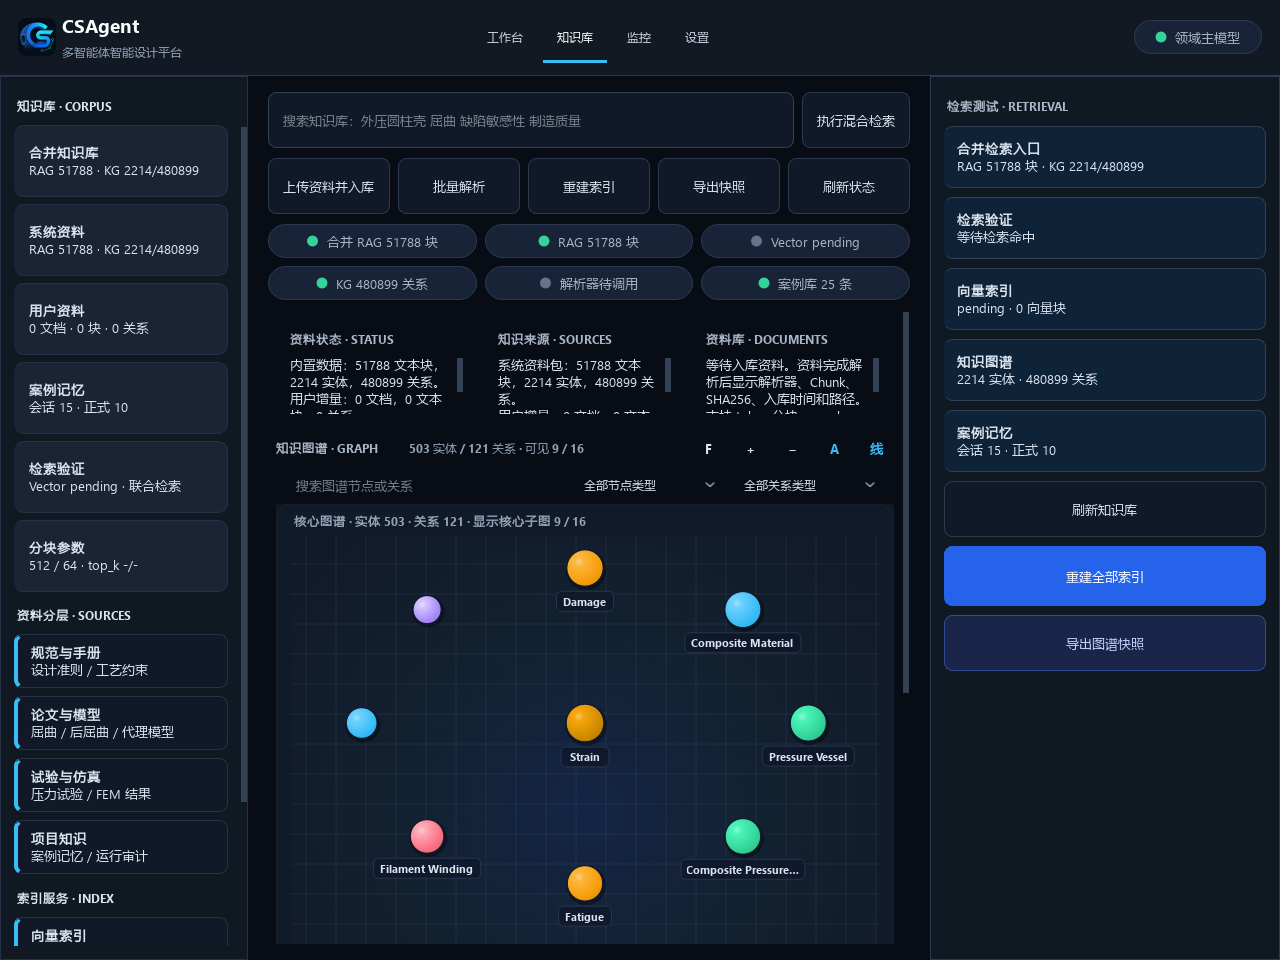
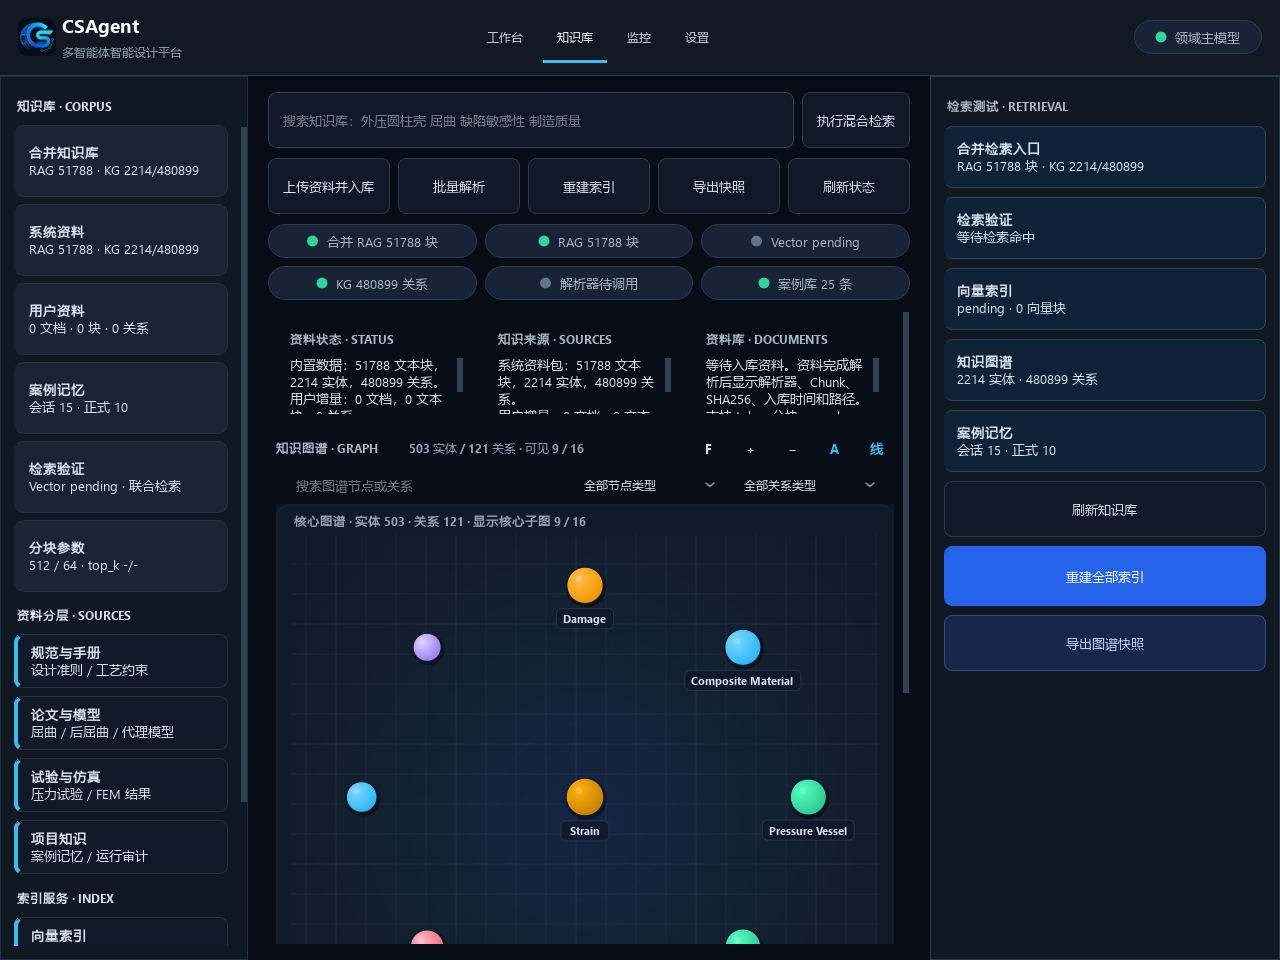
压缩知识图谱垂直留白

diff --git a/gui/knowledge_widget.py b/gui/knowledge_widget.py
@@ -550,15 +550,15 @@ class KnowledgeGraphView(QWidget):
         available_width = max(1.0, graph_rect.width() - padding * 2.0)
         available_height = max(1.0, graph_rect.height() - padding * 2.0)
         factor = min(1.72, available_width / width, available_height / height)
-        vertical_factor = min(1.78, max(factor, available_height / height * 0.82))
+        vertical_factor = min(2.35, max(factor, available_height / height * 0.98))
         current_center = QPointF((min_x + max_x) / 2.0, (min_y + max_y) / 2.0)
-        vertical_offset = min(88.0, graph_rect.height() * 0.20)
-        target_center = QPointF(graph_rect.center().x(), graph_rect.center().y() - vertical_offset)
+        label_balance_offset = min(14.0, graph_rect.height() * 0.03)
+        target_center = QPointF(graph_rect.center().x(), graph_rect.center().y() - label_balance_offset)
         fitted: dict[str, QPointF] = {}
         safe_left = graph_rect.left() + 34.0
         safe_right = graph_rect.right() - 34.0
-        safe_top = graph_rect.top() + 33.0
-        safe_bottom = graph_rect.bottom() - 88.0
+        safe_top = graph_rect.top() + 34.0
+        safe_bottom = graph_rect.bottom() - 34.0
         for name, point in positions.items():
             x = target_center.x() + (point.x() - current_center.x()) * factor
             y = target_center.y() + (point.y() - current_center.y()) * vertical_factor
